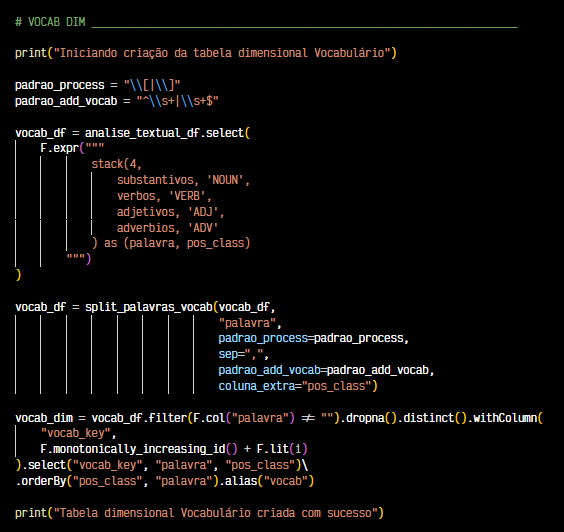
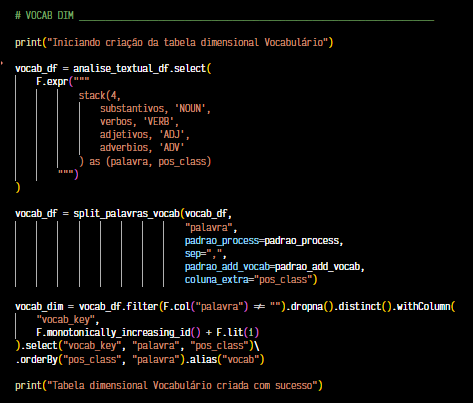
envio de arquivos script e documentação revisados

diff --git a/sprint9/desafio/job_refined_v2.py b/sprint9/desafio/job_refined_v2.py
@@ -203,6 +203,9 @@ def termo_mais_comum(lista: list[str]) -> str:
 
 # Tratamento de Palavras para Vocabulário _______________________________________
 
+padrao_process = "\\[|\\]"
+padrao_add_vocab = "^\\s+|\\s+$"
+
 def split_palavras_vocab(df: object,
                          coluna_palavras: str,
                          padrao_process: str,
@@ -539,9 +542,6 @@ print("Tabela dimensional Corpora criada com sucesso")
 
 print("Iniciando criação da tabela dimensional Vocabulário")
 
-padrao_process = "\\[|\\]"
-padrao_add_vocab = "^\\s+|\\s+$"
-
 vocab_df = analise_textual_df.select(
     F.expr("""
             stack(4,
@@ -626,7 +626,7 @@ print("Iniciando criação da tabela bridge Filmes-Vocab")
 # JOIN Entre Fato Filmes e Dimensional Vocabulário
 filmes_vocab_bridge = contagem_palavras.join(
     vocab_dim,
-    contagem_palavras.palavra == vocab_df.palavra,
+    contagem_palavras.palavra == vocab_dim.palavra,
     "inner"
 ).join(
     filmes_fact,

diff --git a/sprint9/desafio/README.md b/sprint9/desafio/README.md
@@ -8,9 +8,51 @@
 ## SEÇÕES
 
 * **Introdução ao Processamento de Linguagem Natural (NLP)** [֍](#introdução-ao-processamento-de-linguagem-natural-nlp)
+  * **Tarefas de Pré-Processamento** [֍](#tarefas-de-pré-processamento)
   * **Visão Geral do Hugging Face 🤗** [֍](#visão-geral-do-hugging-face-)
-* **Considerações Finais** [֍](../../sprint9/desafio/README.md#considerações-finais)
-* **Referências** [֍](../../sprint9/desafio/README.md#referências)
+  * **Modelos Utilizados** [֍](#modelos-utilizados)
+* **Camada Trusted Zone: Revisando os Dados** [֍](#camada-trusted-zone-revisando-os-dados)
+  * **Primeiras Descobertas nos Dados** [֍](#primeiras-descobertas-nos-dados)
+  * **Diagrama da Modelagem Dimensional** [֍](#diagrama-da-modelagem-dimensional)
+* **Data Lake e Refined Zone** [֍](#data-lake-e-camada-refined-zone)
+  * **Processamento de Dados: Etapa de Transformação Pt. 2** [֍](#processamento-de-dados-etapa-de-transformação-pt-2)
+  * **Análise do Script do Glue Job** [֍](#análise-do-script-do-glue-job)
+    * **Importações** [֍](#importações)
+    * **Variáveis** [֍](#variáveis)
+    * **Modelos de Língua** [֍](#modelos-de-língua)
+    * **Criação dos DataFrames** [֍](#criação-dos-dataframes)
+    * **Integração de Dados Entre Fontes Local e TMDB** [֍](#integração-de-dados-entre-fontes-local-e-tmdb)
+    * **Funções Auxiliares, Extração de Dados e Criação de Novas Colunas** [֍](#funções-auxiliares-extração-de-dados-e-criação-de-novas-colunas)
+      * **Categorização de Regiões** [֍](#categorização-de-regiões)
+      * **Texto Total: Título + Sinopse** [֍](#texto-total-título--sinopse)
+      * **Detecção de Conteúdo Sexual e Sexismo** [֍](#detecção-de-conteúdo-sexual-e-sexismo)
+      * **Classes Sintáticas e Termos Comuns** [֍](#classes-sintáticas-e-termos-comuns)
+      * **Frequência de Termos: Dicionarização** [֍](#frequência-de-termos-dicionarização)
+    * **Criação das Tabelas Dimensão, Fato e Bridge** [֍](#criação-das-tabelas-dimensão-fato-e-bridge)
+      * **Criação Dimensão Línguas** [֍](#criação-dimensão-línguas)
+      * **Criação Dimensão Países** [֍](#criação-dimensão-países)
+      * **Criação Dimensão Títulos** [֍](#criação-dimensão-títulos)
+      * **Criação Dimensão Análise Textual** [֍](#criação-dimensão-análise-textual)
+      * **Criação Dimensão Corpora** [֍](#criação-dimensão-corpora)
+      * **Criação Dimensão Vocabulário** [֍](#criação-dimensão-vocabulário)
+      * **Criação Fato Filmes**  [֍](#criação-fato-filmes)
+      * **Criação Bridge Filmes-Vocabulário** [֍](#criação-bridge-filmes-vocabulário)
+      * **Deleção de Colunas de ID Auxiliares** [֍](#deleção-de-colunas-de-id-auxiliares)
+    * **Ingressão na Refined Zone** [֍](#ingressão-na-refined-zone)
+* **Execução do Glue Job** [֍](#execução-do-glue-job)
+  * **Criação e Execução do Crawler** [֍](#criação-e-execução-do-crawler)
+* **Modelagem Dimensional: Visão Geral com Athena** [֍](#modelagem-dimensional-visão-geral-com-athena)
+  * **Tabela Dimensional Línguas** [֍](#tabela-dimensional-línguas)
+  * **Tabela Dimensional Países** [֍](#tabela-dimensional-países)
+  * **Tabela Dimensional Títulos** [֍](#tabela-dimensional-títulos)
+  * **Tabela Dimensional Análise Textual** [֍](#tabela-dimensional-análise-textual)
+  * **Tabela Dimensional Vocabulário** [֍](#tabela-dimensional-vocabulário)
+  * **Tabela Dimensional Corpora** [֍](#tabela-dimensional-corpora)
+  * **Tabela Fato Filmes** [֍](#tabela-fato-filmes)
+  * **Tabela Bridge Filmes-Vocabulário** [֍](#tabela-bridge-filmes-vocabulário)
+* **Visão Geral do Bucket Dramance** [֍](#visão-geral-do-bucket-dramance)
+* **Considerações Finais: Dificuldades e Pontos de Melhoria** [֍](#considerações-finais-dificuldades-e-pontos-de-melhoria)
+* **Referências** [֍](#referências)
 
 ## INTRODUÇÃO AO PROCESSAMENTO DE LINGUAGEM NATURAL (NLP)
 
@@ -28,27 +70,27 @@ Apesar das especificidades, existem etapas gerais de processamento de textos já
 
 Antes de começar a aplicar funções analíticas em um texto, é preciso processá-lo de forma a facilitar a separação de ocorrências relevantes, limpeza de ruídos e uniformização de formas distintas com significados similares; são tratamentos diversos com fins de otimizar a identificação de padrões significativos.
 
-> ***Normalização** de palavras é a tarefa de colocar palavras, ou **tokens**, em um formato padrão. O caso mais simples de normalização de palavras é o **case folding**. Mapear tudo para minúsculas [...] é muito útil para generalização em muitas tarefas, tais como recuperação de informações ou reconhecimento de fala. Para análise de sentimento e outras tarefas de classificação [...], a caixa da letra pode ser muito útil, e o **case folding** geralmente não é realizado.* (JURAFSKY, MARTIN; 2025, p. 23)
+> ***Normalização** de palavras é a tarefa de colocar palavras, ou **tokens**, em um formato padrão. O caso mais simples de normalização de palavras é o **case folding**. Mapear tudo para minúsculas [...] é muito útil para generalização em muitas tarefas, tais como recuperação de informações ou reconhecimento de fala. Para análise de sentimento e outras tarefas de classificação [...], a caixa da letra pode ser muito útil, e o **case folding** geralmente não é realizado.* [^1]
 
 A caracterização do que é mantido ou desprezado depende da tarefa em questão, no entanto, os processos em si são rotineiros; a seguir alguns relevantes, brevemente comentados para a compreensão das etapas de tratamento dos dados de texto:
 
 * **Parsing e Tokenização**
+  
+O tratamento de tokenização das strings das colunas de texto foi realizado, quase inteiramente, por **expressões regulares**, primeiramente com split baseado em espaços, limpeza de caracteres especiais e consolidação de termos de interesse em uma string de tokens separados por vírgulas. Posteriormente, esses tokens foram separados a partir das vírgulas.
 
-> *Parsing is necessary when the string contains more than plain text. For instance, if
-the raw data is a web page, an email, or a log of some sort, then it contains additional
-structure. [...] After light parsing, the plain-text portion of the document can go through tokeniza‐
-tion. This turns the string—a sequence of characters—into a sequence of tokens.
-Each token can then be counted as a word. The tokenizer needs to know what charac‐
-ters indicate that one token has ended and another is beginning. Space characters are
-usually good separators, as are punctuation characters.* (ZHENG, CASARI; 2018, p. 52)
+> *O **parsing, ou análise sintática**, é necessário quando a string contém mais do que texto simples. Por exemplo, se o texto bruto vem de uma página web, email ou algum log, então contém alguma estrutura adicional. [...] Depois de um parsing superficial, essa porção de texto simples do documento pode passar pelo processo de **tokenização**. Assim, tornando a string - uma sequência de caracteres - em uma sequência de **tokens**. Cada token pode, então, ser contabilizado como uma palavra. O tokenizador precisa saber quais caracteres indicam que um token terminou e outro está começando. Espaços e pontuação são, geralmente bons separadores.* [^2]
 
 * **Remoção de Stopwords**
 
-> *Classificação e recuperação de dados geralmente não necessitam uma compreensão aprofundada do texto. Por exemplo, na frase "Emma bateu em uma porta", a palavras "em" e "uma" não alteram o fato de que essa frase é sobre uma pessoa e uma porta. Para tarefas menos granulares, como classificação, os pronomes, artigos e preposições não acrescentam muito valor. O caso pode ser muito diferente na análise de sentimentos, a qual requer uma compreensão mais refinada de semântica.* (ZHENG, CASARI; 2018, p. 48)
+Os **tokens** gerados foram filtrados para desprezar temos não-alfabéticos e ***stopwords***, que não agregam significado lexical à análise.
+
+> *Classificação e recuperação de dados geralmente não necessitam uma compreensão aprofundada do texto. Por exemplo, na frase "Emma bateu em uma porta", a palavras "em" e "uma" não alteram o fato de que essa frase é sobre uma pessoa e uma porta. Para tarefas menos granulares, como classificação, os pronomes, artigos e preposições não acrescentam muito valor. O caso pode ser muito diferente na análise de sentimentos, a qual requer uma compreensão mais refinada de semântica.* [^3]
 
 * **Lematização**
+  
+Dentre os tokens filtrados na etapa anterior, são armazenados somente termos das classes sintáticas de substantivos, adjetivos, verbos e advérbios. Tais termos são convertidos para sua forma "lemma"; uma forma normalizada que despreza afixos, permitindo agregar ocorrências de um mesmo significado, que estejam flexionadas ou conjugadas de diversas maneiras. No vocabulário, as palavras são inseridas e contabilizadas na tabela bridge Filmes-Vocab somente após a lematização.
 
-> *Lematização é a tarefa de determinar que 2 palavras possuem a mesma raíz, apesar de suas diferenças aparentes. As palavras "am", "are" e "is" possuem em comum o mesmo **lemma** "be"; as palavras "dinner" e "dinners" o mesmo **lemma** "dinner". [...] Os métodos mais sofisticados para a lematização envolvem uma análise morfossintática (**parsing**) completa da palavra. [...] Morfologia é o estudo do morfema, o modo que as palavras são construídas a partir de partes menores, contendo significados. Duas grandes classes de morfemas podem ser definidas: **raíz** (stem), o morfema central da palavra, que supre o significado principal, e os **afixos**, que adicionam significados diversos.* (JURAFSKY, MARTIN; 2025, p. 23)
+> *Lematização é a tarefa de determinar que 2 palavras possuem a mesma raíz, apesar de suas diferenças aparentes. As palavras "am", "are" e "is" possuem em comum o mesmo **lemma** "be"; as palavras "dinner" e "dinners" o mesmo **lemma** "dinner". [...] Os métodos mais sofisticados para a lematização envolvem uma análise morfossintática (**parsing**) completa da palavra. [...] Morfologia é o estudo do morfema, o modo que as palavras são construídas a partir de partes menores, contendo significados. Duas grandes classes de morfemas podem ser definidas: **raíz** (stem), o morfema central da palavra, que supre o significado principal, e os **afixos**, que adicionam significados diversos.* [^4]
 
 * **Vetores e Embeddings**
 
@@ -56,7 +98,7 @@ Para as tarefas acima, ainda são utilizados os textos em forma de ***tokens***,
 
 Para tarefas de processamento utilizando modelos computacionais é preciso transformar os textos em dados numéricos, chamados **embeddings** , onde o "significado" dos ***tokens***, ao serem colocados em relação com os demais, recebe valores numéricos de acordo com sua distribuição de probabilidade a partir de coocorrências. Nas famosas palavras do linguista J.R. Firth (1957), *“You shall know a word by the company it keeps”* , em tradução direta, "conheces uma palavra pelas companhias que mantém."
 
-> *Modelos de Redes de Aprendizado Profundo, incluindo LLMs, são incapazes de processar textos brutos diretamente. Visto que textos são categóricos, não são compatíveis com as operações matemáticas usadas para implementar e treinar redes neurais. Portanto, se faz necessária uma maneira de representar palavras como vetores de valores contínuos.* (RASCHKA, 2025, p. 18)
+> *Modelos de Redes de Aprendizado Profundo, incluindo LLMs, são incapazes de processar textos brutos diretamente. Visto que textos são categóricos, não são compatíveis com as operações matemáticas usadas para implementar e treinar redes neurais. Portanto, se faz necessária uma maneira de representar palavras como vetores de valores contínuos.* [^5]
 
 Nos frameworks utilizados, SpaCy e Hugging Face 🤗, os modelos são carregados juntamente com um pipeline que adapta os pré-processamentos às necessidades de configuração de cada modelo (a quantidade de dimensões de cada embedding, por exemplo, difere entre modelos). Portanto, todo texto processado pelos modelos neste projeto, passou por uma etapa de vetorização camuflada.
 
@@ -72,7 +114,7 @@ Cada pipeline envolve 3 subprocessos, já adaptados para extração de valores p
 * **Processamento** : os dados de input são processados pelo modelo.
 * **Pós-processamento** : os resultados das predições são transformados para facilitar a leitura dos valores obtidos.
 
-> *[...] a abordagem moderna dominante para executar cada tarefa é utilizar um único **modelo de base (foundation model)** e adaptá-lo levemente utilizando quantidades relativamente pequenas de dados anotados, específicos para cada tarefa [...] Esta se provou uma abordagem extremamente exitosa: para a grande maioria das tarefas [...], um modelo de base adaptado para uma tarefa supera vastamente os modelos anteriores ou os pipelines de modelos que foram criados para executar aquela tarefa em específico.* (PAPADIMITRIOU, MANNING; 2021, p. 23)
+> *[...] a abordagem moderna dominante para executar cada tarefa é utilizar um único **modelo de base (foundation model)** e adaptá-lo levemente utilizando quantidades relativamente pequenas de dados anotados, específicos para cada tarefa [...] Esta se provou uma abordagem extremamente exitosa: para a grande maioria das tarefas [...], um modelo de base adaptado para uma tarefa supera vastamente os modelos anteriores ou os pipelines de modelos que foram criados para executar aquela tarefa em específico.* [^6]
 
 Para tarefas de NLP, alavancar resultados com base em grandes modelos de língua pré-treinados é a forma mais acessível e otimizada de trabalhar com datasets de texto. A abordagem adotada segue essa metodologia, os modelos utilizados foram treinados em cima de modelos de base, comentados na próxima seção. A seguir, algumas das tarefas relevantes para o tipo de análise deste projeto, dentre as diversas disponíveis na plataforma Hugging Face 🤗:
 
@@ -98,7 +140,7 @@ A seguir os modelos utilizados nas plataformas utilizadas e algumas informaçõe
 
 `annahaz/xlm-roberta-base-misogyny-sexism-indomain-mix-bal` | Hugging Face 🤗
 
-[Modelo multilíngue](https://huggingface.co/annahaz/xlm-roberta-base-misogyny-sexism-indomain-mix-bal) de detecção de emoções, misoginia e sexismo em discursos, o treino foi realizado em cima dos modelos-base e `XLM-RoBERTa`, `BERT` e `DistilBERT`, com *corpora* de comentários em fóruns de discussão de cunho político e datasets anotados. A seguir alguns dos métodos, critérios e modelos complementares para obtenção das métricas (RONG-CHING, MAY, LERMAN; 2023, p. 88):
+[Modelo multilíngue](https://huggingface.co/annahaz/xlm-roberta-base-misogyny-sexism-indomain-mix-bal) de detecção de emoções, misoginia e sexismo em discursos, o treino foi realizado em cima dos modelos-base e `XLM-RoBERTa`, `BERT` e `DistilBERT`, com *corpora* de comentários em fóruns de discussão de cunho político e datasets anotados. A seguir alguns dos métodos, critérios e modelos complementares para obtenção das métricas [^7]:
 
 * **Detecção de Toxicidade** : utiliza o modelo `Detoxify`
 * **Detecção de Emoções** : utiliza o modelo `GoEmotions`
@@ -486,8 +528,10 @@ Essa função foi utilizada no processo de criação das tabelas `vocab_dim` e `
 * `df` DataFrame com a coluna de termos a ser incluída em uma coleção ou dicionário de termos
 * `coluna_palavras` coluna com a lista de termos, uma string com tokens separados
 * `padrao_process` o padrão em RegEx para o tratamento de separação de termos da lista
+  * `\\[|\\]` o padrão declarado seleciona colchetes para remoção
 * `sep` o separador entre os tokens da lista
 * `padrao_add_vocab` o padrão em RegEx para tratamento após o split, precedendo a inserção do termo
+  * `^\\s+|\\s+$` o padrão declarado seleciona espaços em branco no começo e fim da string
 * `coluna_extra` coluna de referência (geralmente um ID), a ser selecionada e incluída no DataFrame resultante
 
 ![Coluna Frequência](../evidencias/50-script-coluna-frequencia.png)
@@ -498,9 +542,19 @@ Essa função foi utilizada no processo de criação das tabelas `vocab_dim` e `
 
 Nesta seção, as colunas criadas anteriormente e as tabelas auxiliares utilizadas nesse processo são consolidadas na versão final das tabelas após a modelagem dimensional.
 
+Para a criação de chaves primárias, foi utilizada a função `monotonically_increasing_id()` com o acréscimo do inteiro `1` para que a indexação não comece do valor 0 (zero). Os IDs gerados são crescentes e únicos, porém não são necessariamente consecutivos, ainda assim, esse fator não prejudica a modelagem. 
+
+E, para os caso de relações entre tabelas que possuem colunas de IDs compartilhados, foi utilizada a função `alias()` para facilitar a referenciação nos JOINs seguintes.
+
 ##### CRIAÇÃO DIMENSÃO LÍNGUAS
 
 *Voltar para **Seções*** [֍](#seções)
+
+Para a dimensão Línguas, foi utilizada a tabela `linguas_df` do TMDB como base, algumas células multivaloradas tiveram seus valores tratados.
+
+* `lingua_key`
+* `iso_cod`
+* `lingua`
 
 ![Script Dimensão Línguas](../evidencias/18-script-dimensao-linguas.png)
 
@@ -508,11 +562,24 @@ Nesta seção, as colunas criadas anteriormente e as tabelas auxiliares utilizad
 
 *Voltar para **Seções*** [֍](#seções)
 
+A dimensão Países é criada após a extração da categoria `regiao` com a função auxiliar `obter_regiao` aplicada ao DataFrame `paises_df`, também com dados obtidos do TMDB.
+
+* `pais_key`
+* `iso_cod`
+* `pais`
+* `regiao`
+
 ![Script Dimensão Países](../evidencias/19-script-dimensao-paises.png)
 
 ##### CRIAÇÃO DIMENSÃO TÍTULOS
 
 *Voltar para **Seções*** [֍](#seções)
+
+Para a dimensão de Títulos, além das colunas de interesse, foi incluído o `tmdb_id` para facilitar na relação da dimensão com a tabela fato, visto que os dados de título não são confiáveis como identificador único de cada filme.
+
+* `titulo_key`
+* `titulo_comercial`
+* `titulo_original`
 
 ![Script Dimensão Títulos](../evidencias/51-script-dimensao-titulos.png)
 
@@ -520,11 +587,29 @@ Nesta seção, as colunas criadas anteriormente e as tabelas auxiliares utilizad
 
 *Voltar para **Seções*** [֍](#seções)
 
+Na dimensão de Análise Textual, todas as inferências e extrações de classificação de texto e tokens são selecionadas, e também é utilizado `tmdb_id` para auxiliar na relação posterior. Em alguns casos, como este, a seleção é feita em 2 etapas, primeiro com a ordenação dos valores, para depois ser gerada a chave primária. Aqui, a análise é referente a cada filme individualmente.
+
+* `analise_key`
+* `sinopse`
+* `texto_total`
+* `conteudo_sexual`
+* `sexismo`
+* `subst_mais_comum`
+* `verbo_mais_comum`
+* `adj_mais_comum`
+* `adv_mais_comum`
+
 ![Script Dimensão Análise](../evidencias/52-script-dimensao-analise.png)
 
 ##### CRIAÇÃO DIMENSÃO CORPORA
 
 *Voltar para **Seções*** [֍](#seções)
+
+A dimensão Corpora busca centralizar todos os textos de um *corpus* para uma análise específica, podendo explicitar tendências que permeiam os exemplares como um todo. Ou seja, inclui todos os textos analisados na dimensão Análise Textual. Neste caso, também pareceu útil incluir o timestamp de criação, para análises comparativas com outros *corpus* ou versões do mesmo *corpus*.
+
+* `corpus_key`
+* `corpus`
+* `data_registro`
 
 ![Script Dimensão Corpora](../evidencias/53-script-dimensao-corpora.png)
 
@@ -532,13 +617,41 @@ Nesta seção, as colunas criadas anteriormente e as tabelas auxiliares utilizad
 
 *Voltar para **Seções*** [֍](#seções)
 
+Para a criação da dimensão Vocabulário, com ocorrências distintas de tokens já normalizados e categorizados, é utilizado como base o DataFrame `analise_textual_df` , o qual possui os termos extraídos da coluna `texto_total` separados por classe sintática.
+
+O processo é realizado em 2 etapas:
+
+* **Criação de DataFrame intermediário**: a partir da função `stack`, a qual transforma colunas em linhas. Portanto, os arrays de termos contidos nas colunas `substantivos` , `verbos` , `adjetivos` e `adverbios` são translocados para linhas individuais de um DataFrame de termos e classes.
+
+* **Split de termos e limpeza pré-inserção**: a partir da função definida no início do script `split_palavras_vocab` , as colunas com array de termos são tratadas linha a linha com 2 padrões distintos, definidos pelo usuário (bem como o separador a se considerar), os padrões definidos foram:
+  * `padrao_process = \\[|\\]` remoção de colchetes [ e ]
+  * `padrao_add_vocab = ^\\s+|\\s+$` remove espaços vazios no início ou fim do token  
+
 ![Script Dimensão Vocabulário](../evidencias/54-script-dimensao-vocab.png)
+
+Após isso, a dimensão Vocabulário é criada, filtrando linhas vazias e valores nulos que possam ter passado nas etapas anteriores, e ordenada por classe sintática.
 
 ##### CRIAÇÃO FATO FILMES
 
 *Voltar para **Seções*** [֍](#seções)
 
+A criação da tabela fato Filmes foi feita em 2 etapas, somente para contornar um problema de conflito de IDs não resolvido apesar dos aliases criados, separando os JOINs em blocos. Para as dimensões que não possuiam um código único antes de sua criação, foi utilizado o `tmdb_id` como auxiliar.
+
 ![Script Fato Filmes Pt. 1](../evidencias/55-script-fato-parte1.png)
+
+O JOIN da tabela de Análise Textual foi feito separadamente.
+
+* `filme_key`
+* `tmdb_id`
+* `imdb_id`
+* `titulo_key`
+* `pais_key`
+* `lingua_key`
+* `corpus_key`
+* `ano_lancamento`
+* `popularidade`
+* `media_avaliacao`
+* `qtd_avaliacoes`
 
 ![Script Fato Filmes Pt. 2](../evidencias/56-script-fato-parte2.png)
 
@@ -546,15 +659,23 @@ Nesta seção, as colunas criadas anteriormente e as tabelas auxiliares utilizad
 
 *Voltar para **Seções*** [֍](#seções)
 
+O DataFrame intermediário `contagem_palavras` gerado [nesta etapa](#frequência-de-termos-dicionarização), com a coluna de `frequencia` de termos por filme, é utilizado como base para a tabela associativa / bridge Filmes-Vocabulário.
+
+As palavras são relacionadas com a dimensão Vocabulário por meio da coluna `palavra` (correspondente ao termo lematizado, sendo substantivo, adjetivo, verbo ou advérbio) e com a fato Filmes por meio do `tmdb_id`, incluso no DataFrame como auxiliar.
+
+* `filme_key`
+* `vocab_key`
+* `frequencia`
+
 ![Script Bridge Filmes Vocab](../evidencias/57-script-bridge-filmes-linguas.png)
 
 ##### DELEÇÃO DE COLUNAS DE ID AUXILIARES
 
 *Voltar para **Seções*** [֍](#seções)
 
-Em alguns processos de criação das tabelas, foi preciso utilizar um ID comum entre os dados para estabelecer as relações em uma etapa intermediária, antes da criação das novas chaves primárias/estrangeiras para cada nova tabela.
+Como já comentado acima, em alguns processos de criação das tabelas, foi preciso utilizar um ID comum entre os dados para estabelecer as relações em uma etapa intermediária, antes da criação das novas chaves primárias/estrangeiras para cada nova tabela.
 
-Nesta etapa, após estabelecidas as relações com as novas chaves, essas colunas são excluídas das tabelas em que não são pertinentes. No caso presente, foi utilizada somente a coluna `tmdb_id` para todos os casos necessários.
+Nesta etapa, após estabelecidas as relações com as novas chaves, essas colunas são excluídas das tabelas em que não são pertinentes. No caso presente, foi utilizada somente a coluna `tmdb_id` para os 3 casos necessários.
 
 ![Deleção de Colunas Auxiliares](../evidencias/58-script-delecao-colunas-id-aux.png)
 
@@ -711,7 +832,7 @@ E a seguir, para visualizar os resultados obtidos :
 
 ![Logs de Execução](../evidencias/38-bucket-logs.png)
 
-## DIFICULDADES E PONTOS DE MELHORIA
+## CONSIDERAÇÕES FINAIS: DIFICULDADES E PONTOS DE MELHORIA
 
 *Voltar para **Seções*** [֍](#seções)
 
@@ -743,12 +864,14 @@ Para otimizar o fluxo, seria preciso melhorar o planejamento da capacidade de co
   * `annahaz/xlm-roberta-base-misogyny-sexism-indomain-mix-bal`
   * `uget/sexual_content_dection`
 
-## CONSIDERAÇÕES FINAIS
-
-*Voltar para **Seções*** [֍](#seções)
-
-
-
 ## REFERÊNCIAS
 
 *Voltar para **Seções*** [֍](#seções)
+
+[^1]: JURAFSKY, MARTIN; 2025, p. 23
+[^2]: ZHENG, CASARI; 2018, p. 52
+[^3]: Ibidem, p. 48
+[^4]: JURAFSKY, MARTIN; 2025, p. 23
+[^5]: RASCHKA, 2025, p. 18
+[^6]: PAPADIMITRIOU, MANNING; 2021, p. 23
+[^7]: RONG-CHING, MAY, LERMAN; 2023, p. 88
